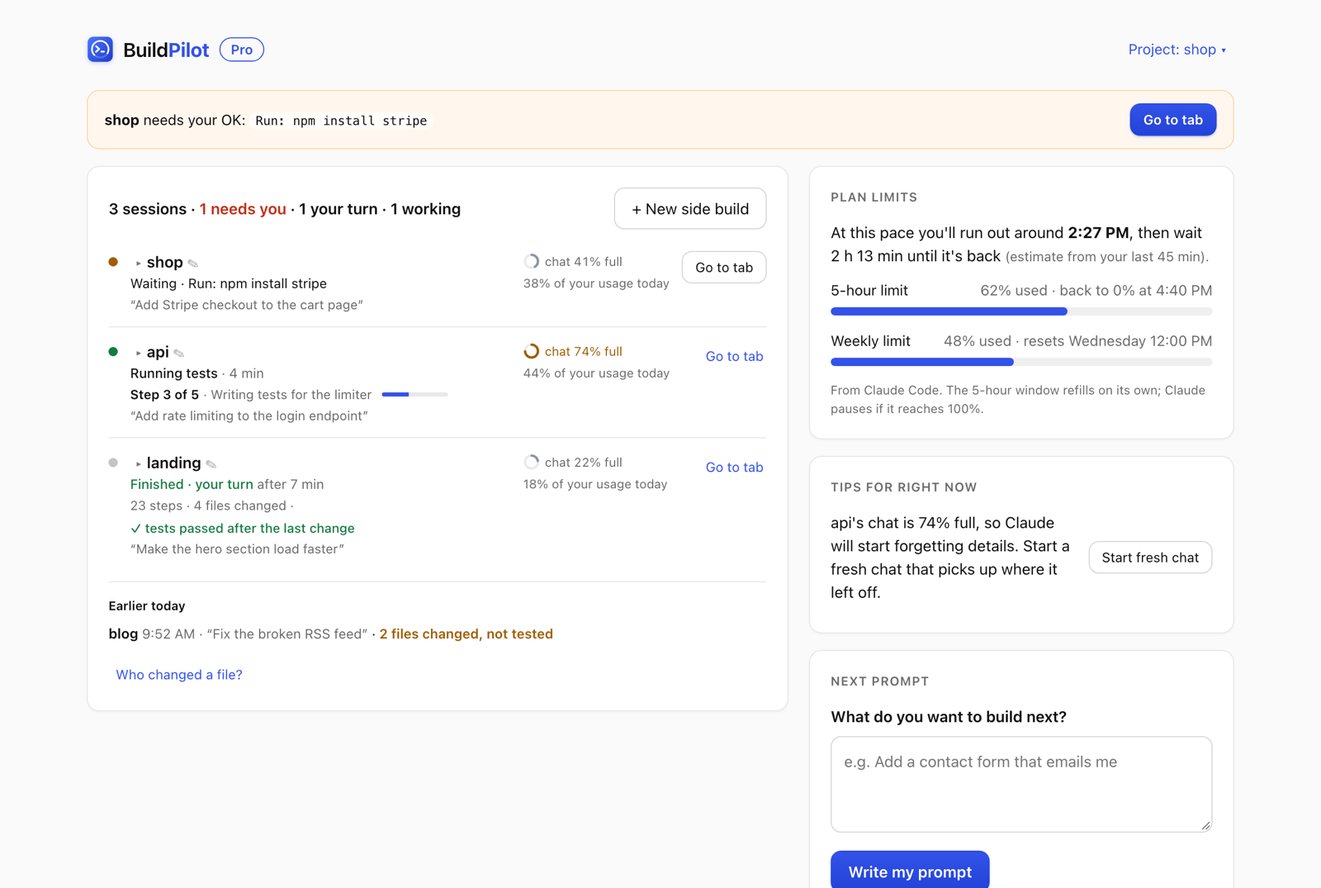
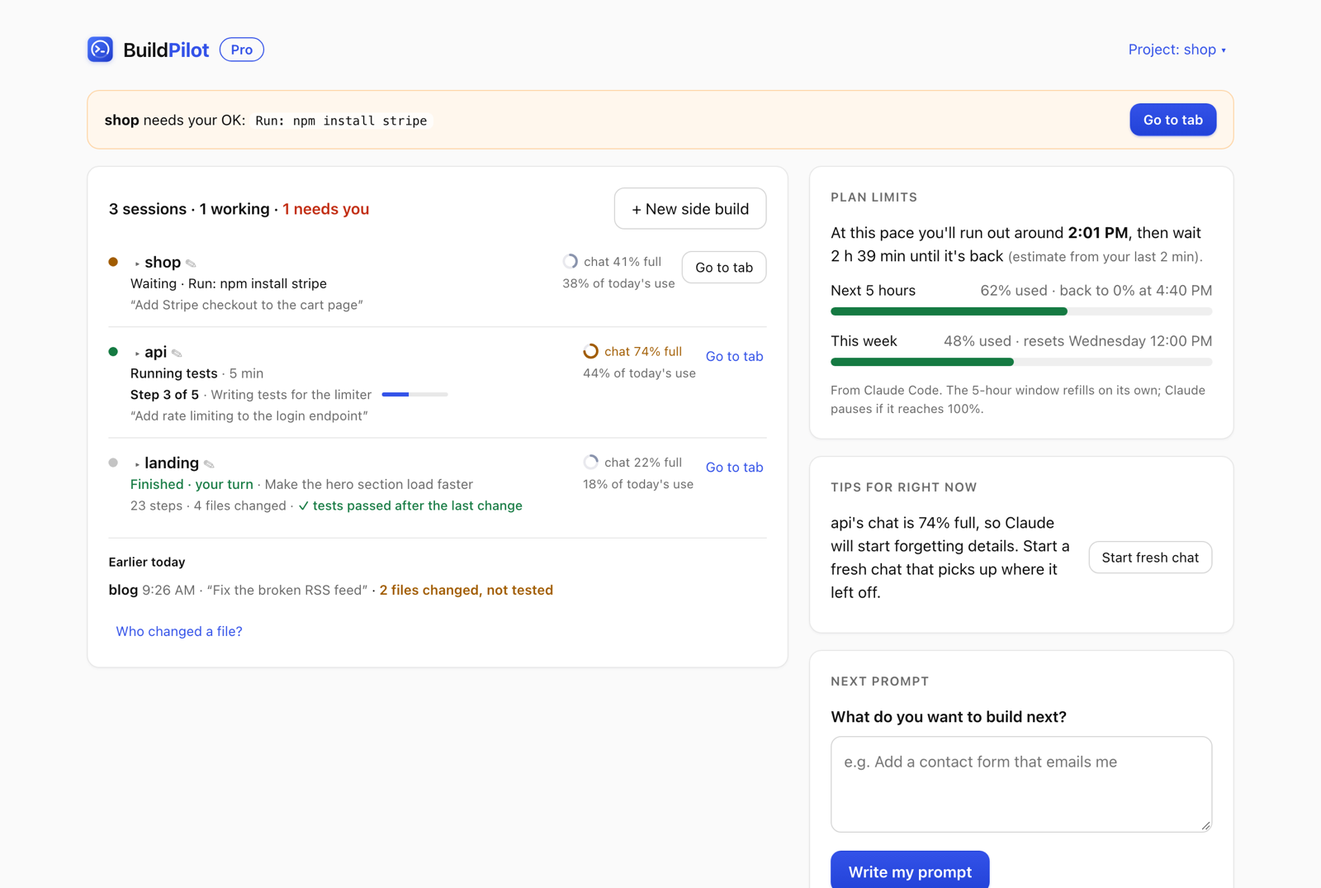
Website + README hero for 0.12 (demo data only), guide image uses demo data, chat ring color follows chat thresholds

diff --git a/media/webview.js b/media/webview.js
@@ -1,5 +1,5 @@
 "use strict";(()=>{function O(t){let e=t.toLowerCase();return/\b(bug|broken|fix|error|crash|doesn'?t work|not working|fails?)\b/.test(e)?"bugfix":/\b(deploy|launch|ship|host|publish|go live)\b/.test(e)?"deploy":/\b(test|tests|testing)\b/.test(e)?"tests":/\b(slow|speed|faster|performance)\b/.test(e)?"performance":/\b(secure|security|password|leak|secret)\b/.test(e)?"security":/\b(design|layout|look|style|css|ui|button|page|screen)\b/.test(e)?"ui":/\b(connect|integrat|api|stripe|gmail|google|webhook)\w*/.test(e)?"integration":/\b(explain|understand|what does|how does)\b/.test(e)?"explain":/\b(clean ?up|refactor|reorganize|simplify)\b/.test(e)?"refactor":"feature"}var H=acquireVsCodeApi(),C={request:"",...H.getState()??{}},J=()=>H.setState(C),g=null,i=null,N=!0,E="white",F="white",X=()=>typeof matchMedia=="function"&&matchMedia("(prefers-color-scheme: dark)").matches;typeof matchMedia=="function"&&matchMedia("(prefers-color-scheme: dark)").addEventListener?.("change",()=>{F==="auto"&&(E=X()?"match":"white",m())});var y=!1,Z=!0,x=20,v="",P=null,D=!1,K="",nt=0,U=new Map;function d(t,e={}){let s=++nt;return new Promise(n=>{U.set(s,n),H.postMessage({type:t,id:s,...e})})}window.addEventListener("message",t=>{let e=t.data;if(e.type==="reply"&&e.id)U.get(e.id)?.(e.result),U.delete(e.id);else if(e.type==="state"){g=e.state??null,i=e.page??null,N=e.settings?.trusted??!0,F=e.settings?.theme??"white",E=F==="match"||F==="auto"&&X()?"match":"white",y=!!e.settings?.standalone,Z=e.settings?.alerts!==!1;let s=JSON.stringify({p:i,n:g?.project?.root,a:g?.analyzing,t:Math.floor((g?.generatedAt??0)/6e4),trusted:N,theme:E});if(s===K)return;K=s,m()}else e.type==="navigate"&&document.getElementById("req")?.focus()});var a=t=>String(t??"").replace(/[&<>"']/g,e=>({"&":"&amp;","<":"&lt;",">":"&gt;",'"':"&quot;","'":"&#39;"})[e]),M=t=>new Date(t).toLocaleTimeString([],{hour:"numeric",minute:"2-digit"});function T(t){let e=Math.max(0,Math.round((Date.now()-t)/1e3));return e<60?"just now":e<3600?`${Math.round(e/60)} min ago`:`${Math.round(e/3600)} h ago`}function f(t,e=90){if(!t)return"";let s=(t.split(`
-`).map(n=>n.trim()).find(n=>n.length>0)??"").replace(/\s+/g," ");return s.length>e?`${s.slice(0,e-1).trimEnd()}\u2026`:s}var it=t=>t==null?"none":t>=90?"bad":t>=70?"warn":"ok",tt=t=>t==null?"none":t>=95?"bad":t>=80?"warn":"ok",I=null;function b(t){let e=document.getElementById("flash");e&&(e.textContent=t,e.classList.add("on"));let s=document.getElementById("live");s&&(s.textContent=t),I&&clearTimeout(I),I=setTimeout(()=>document.getElementById("flash")?.classList.remove("on"),2400)}var et='<svg class="mark" viewBox="0 0 512 512" aria-hidden="true" focusable="false"><defs><linearGradient id="bpg" x1="0" y1="0" x2="1" y2="1"><stop offset="0" stop-color="#4C78FF"/><stop offset="1" stop-color="#1F3BC9"/></linearGradient></defs><rect x="16" y="16" width="480" height="480" rx="112" fill="url(#bpg)"/><circle cx="256" cy="256" r="158" fill="none" stroke="#FFFFFF" stroke-opacity=".22" stroke-width="30"/><circle cx="256" cy="256" r="158" fill="none" stroke="#FFFFFF" stroke-width="30" stroke-linecap="round" stroke-dasharray="700 993" transform="rotate(135 256 256)"/><path d="M176 200 L236 252 L176 304" fill="none" stroke="#FFFFFF" stroke-width="34" stroke-linecap="round" stroke-linejoin="round"/><rect x="262" y="286" width="82" height="34" rx="17" fill="#FFFFFF"/></svg>';function ot(t){let s=2*Math.PI*7,n=Math.min(100,Math.max(0,t));return`<svg class="ring tone-${t<70?"calm":tt(t)}" viewBox="0 0 18 18" aria-hidden="true" focusable="false"><circle cx="9" cy="9" r="7" class="ring-bg"/><circle cx="9" cy="9" r="7" class="ring-fg" stroke-dasharray="${(n/100*s).toFixed(1)} ${s.toFixed(1)}" transform="rotate(-90 9 9)"/></svg>`}function lt(){if(!i||!i.connected)return"";let t=[],e=i.builds.find(r=>r.needsYou);e&&t.push(`<div class="hu hu-need"><span><b>${a(e.name??e.folder)}</b> needs your OK${e.waitingFor?`: <code>${a(f(e.waitingFor,60))}</code>`:""}</span><button class="primary small-btn" data-act="openBuild" data-cwd="${a(e.cwd)}" data-id="${a(e.id)}">${y?"Go to tab":"Review"}</button></div>`);let s=i.limits;if((s.fiveHourPct??0)>=80){let r=[...i.builds].filter(l=>l.share!=null&&l.agent!=="codex").sort((l,h)=>h.share-l.share)[0],u=r&&i.builds.length>1&&(r.share??0)>=30?`<button class="secondary small-btn" data-act="tip" data-tip="pause" data-cwd="${a(r.cwd)}" title="Opens its terminal so you can press Esc to pause it. Your files are kept.">Pause ${a(r.name??r.folder)} (${r.share}%)</button>`:"";t.push(`<div class="hu hu-limit"><span><b>${Math.round(s.fiveHourPct)}%</b> of your 5-hour limit used${s.fullAt?` \xB7 runs out around <b>${M(s.fullAt)}</b>`:""}${s.fiveHourResetsAt?` \xB7 back at ${M(s.fiveHourResetsAt)}`:""}</span>${u}</div>`)}let n=i.builds.find(r=>r.stopped);n&&t.length<2&&t.push(`<div class="hu hu-stop"><span><b>${a(n.name??n.folder)}</b> stopped mid-task</span><button class="secondary small-btn" data-act="resumeBuild" data-id="${a(n.id)}" data-cwd="${a(n.cwd)}">Resume</button></div>`);let o=i.builds.find(r=>(r.errors1h??0)>=3);return o&&t.length<2&&t.push(`<div class="hu hu-err"><span><b>${a(o.name??o.folder)}</b> hit ${o.errors1h} errors this hour</span><button class="secondary small-btn" data-act="toggleErrors" data-id="${a(o.id)}">See them</button></div>`),t.length?`<section class="headsup" aria-label="Needs attention">${t.slice(0,2).join("")}</section>`:""}var rt=["data-act","data-id","data-cwd","data-dir","data-tip","data-path","data-branch"];function dt(t){if(!t||t===document.body||t.id)return null;let e=rt.filter(s=>t.hasAttribute(s)).map(s=>`[${s}="${CSS.escape(t.getAttribute(s))}"]`).join("");return e?`${t.tagName.toLowerCase()}${e}`:null}var _="";function ct(){if(!i)return;let t=[],e=i.builds.filter(n=>n.needsYou);e.length&&t.push(`${e.map(n=>n.name??n.folder).join(", ")} ${e.length===1?"needs":"need"} you`),(i.limits.fiveHourPct??0)>=80&&t.push(`${Math.round(i.limits.fiveHourPct)} percent of your 5-hour limit used`);let s=t.join(". ");if(s&&s!==_){let n=document.getElementById("live");n&&(n.textContent=s)}_=s}function m(){let t=document.getElementById("app"),e=document.activeElement?.id,s=dt(document.activeElement),n=document.activeElement?.selectionStart??null;if(!g||!i){t.innerHTML='<div class="loading">Starting BuildPilot\u2026</div>';return}document.body.classList.toggle("match",E==="match"),document.body.classList.toggle("sa",y),t.innerHTML=`
+`).map(n=>n.trim()).find(n=>n.length>0)??"").replace(/\s+/g," ");return s.length>e?`${s.slice(0,e-1).trimEnd()}\u2026`:s}var tt=t=>t==null?"none":t>=90?"bad":t>=70?"warn":"ok",it=t=>t==null?"none":t>=95?"bad":t>=80?"warn":"ok",I=null;function b(t){let e=document.getElementById("flash");e&&(e.textContent=t,e.classList.add("on"));let s=document.getElementById("live");s&&(s.textContent=t),I&&clearTimeout(I),I=setTimeout(()=>document.getElementById("flash")?.classList.remove("on"),2400)}var et='<svg class="mark" viewBox="0 0 512 512" aria-hidden="true" focusable="false"><defs><linearGradient id="bpg" x1="0" y1="0" x2="1" y2="1"><stop offset="0" stop-color="#4C78FF"/><stop offset="1" stop-color="#1F3BC9"/></linearGradient></defs><rect x="16" y="16" width="480" height="480" rx="112" fill="url(#bpg)"/><circle cx="256" cy="256" r="158" fill="none" stroke="#FFFFFF" stroke-opacity=".22" stroke-width="30"/><circle cx="256" cy="256" r="158" fill="none" stroke="#FFFFFF" stroke-width="30" stroke-linecap="round" stroke-dasharray="700 993" transform="rotate(135 256 256)"/><path d="M176 200 L236 252 L176 304" fill="none" stroke="#FFFFFF" stroke-width="34" stroke-linecap="round" stroke-linejoin="round"/><rect x="262" y="286" width="82" height="34" rx="17" fill="#FFFFFF"/></svg>';function ot(t){let s=2*Math.PI*7,n=Math.min(100,Math.max(0,t));return`<svg class="ring tone-${t<70?"calm":tt(t)}" viewBox="0 0 18 18" aria-hidden="true" focusable="false"><circle cx="9" cy="9" r="7" class="ring-bg"/><circle cx="9" cy="9" r="7" class="ring-fg" stroke-dasharray="${(n/100*s).toFixed(1)} ${s.toFixed(1)}" transform="rotate(-90 9 9)"/></svg>`}function lt(){if(!i||!i.connected)return"";let t=[],e=i.builds.find(r=>r.needsYou);e&&t.push(`<div class="hu hu-need"><span><b>${a(e.name??e.folder)}</b> needs your OK${e.waitingFor?`: <code>${a(f(e.waitingFor,60))}</code>`:""}</span><button class="primary small-btn" data-act="openBuild" data-cwd="${a(e.cwd)}" data-id="${a(e.id)}">${y?"Go to tab":"Review"}</button></div>`);let s=i.limits;if((s.fiveHourPct??0)>=80){let r=[...i.builds].filter(l=>l.share!=null&&l.agent!=="codex").sort((l,h)=>h.share-l.share)[0],u=r&&i.builds.length>1&&(r.share??0)>=30?`<button class="secondary small-btn" data-act="tip" data-tip="pause" data-cwd="${a(r.cwd)}" title="Opens its terminal so you can press Esc to pause it. Your files are kept.">Pause ${a(r.name??r.folder)} (${r.share}%)</button>`:"";t.push(`<div class="hu hu-limit"><span><b>${Math.round(s.fiveHourPct)}%</b> of your 5-hour limit used${s.fullAt?` \xB7 runs out around <b>${M(s.fullAt)}</b>`:""}${s.fiveHourResetsAt?` \xB7 back at ${M(s.fiveHourResetsAt)}`:""}</span>${u}</div>`)}let n=i.builds.find(r=>r.stopped);n&&t.length<2&&t.push(`<div class="hu hu-stop"><span><b>${a(n.name??n.folder)}</b> stopped mid-task</span><button class="secondary small-btn" data-act="resumeBuild" data-id="${a(n.id)}" data-cwd="${a(n.cwd)}">Resume</button></div>`);let o=i.builds.find(r=>(r.errors1h??0)>=3);return o&&t.length<2&&t.push(`<div class="hu hu-err"><span><b>${a(o.name??o.folder)}</b> hit ${o.errors1h} errors this hour</span><button class="secondary small-btn" data-act="toggleErrors" data-id="${a(o.id)}">See them</button></div>`),t.length?`<section class="headsup" aria-label="Needs attention">${t.slice(0,2).join("")}</section>`:""}var rt=["data-act","data-id","data-cwd","data-dir","data-tip","data-path","data-branch"];function dt(t){if(!t||t===document.body||t.id)return null;let e=rt.filter(s=>t.hasAttribute(s)).map(s=>`[${s}="${CSS.escape(t.getAttribute(s))}"]`).join("");return e?`${t.tagName.toLowerCase()}${e}`:null}var _="";function ct(){if(!i)return;let t=[],e=i.builds.filter(n=>n.needsYou);e.length&&t.push(`${e.map(n=>n.name??n.folder).join(", ")} ${e.length===1?"needs":"need"} you`),(i.limits.fiveHourPct??0)>=80&&t.push(`${Math.round(i.limits.fiveHourPct)} percent of your 5-hour limit used`);let s=t.join(". ");if(s&&s!==_){let n=document.getElementById("live");n&&(n.textContent=s)}_=s}function m(){let t=document.getElementById("app"),e=document.activeElement?.id,s=dt(document.activeElement),n=document.activeElement?.selectionStart??null;if(!g||!i){t.innerHTML='<div class="loading">Starting BuildPilot\u2026</div>';return}document.body.classList.toggle("match",E==="match"),document.body.classList.toggle("sa",y),t.innerHTML=`
   <main class="page">
     <header class="head">
       <h1 class="brand">${et}<span>Build<b>Pilot</b></span></h1>
@@ -40,7 +40,7 @@ ${a(t.task.slice(0,600))}`:""}">${ft(t)}</div>
       ${(t.risks??[]).length?`<div class="b-risk" role="note"><span aria-hidden="true">\u26A0</span> ${a(t.risks[0])}${t.risks.length>1?` <span class="muted">+${t.risks.length-1} more</span>`:""}</div>`:""}
       ${n}
     </div>
-    <div class="b-meta">${t.contextPct!=null?`<span class="mem tone-${it(t.contextPct)}" title="How full this chat is. From 70% Claude starts to lose details; a fresh chat with a summary keeps it sharp.">${ot(t.contextPct)}chat ${Math.round(t.contextPct)}% full</span>`:""}${t.costUsd!=null?`<span class="share" title="Claude Code's own estimate for this build today">~$${t.costUsd.toFixed(2)}</span>`:t.share!=null&&t.share>=1?`<span class="share" title="This build's share of all your Claude Code usage today, from Claude Code's own cost estimate">${t.share}% of today's use</span>`:t.codexTokens?`<span class="share">${k(t.codexTokens)} tokens</span>`:""}</div>
+    <div class="b-meta">${t.contextPct!=null?`<span class="mem tone-${tt(t.contextPct)}" title="How full this chat is. From 70% Claude starts to lose details; a fresh chat with a summary keeps it sharp.">${ot(t.contextPct)}chat ${Math.round(t.contextPct)}% full</span>`:""}${t.costUsd!=null?`<span class="share" title="Claude Code's own estimate for this build today">~$${t.costUsd.toFixed(2)}</span>`:t.share!=null&&t.share>=1?`<span class="share" title="This build's share of all your Claude Code usage today, from Claude Code's own cost estimate">${t.share}% of today's use</span>`:t.codexTokens?`<span class="share">${k(t.codexTokens)} tokens</span>`:""}</div>
     <div class="b-act">${t.agent==="codex"?'<span class="muted small" title="Codex has no hooks, so BuildPilot can only read its logs">read-only</span>':kt(t)}</div>
     ${w.has(t.id)?bt(t):""}
   </li>`}function bt(t){let e=t.tokens,s=e?`<div class="tokens"><div class="d-head">Where the tokens went</div>
@@ -61,7 +61,7 @@ ${a(t.task.slice(0,600))}`:""}">${ft(t)}</div>
       ${e.changed?`<button class="secondary small-btn" data-act="reviewBuild" data-dir="${a(e.dir)}" data-branch="${a(e.branch)}" title="See each changed file, before and after">Review</button><button class="secondary small-btn" data-act="mergeBuild" data-dir="${a(e.dir)}" data-branch="${a(e.branch)}" title="Bring this build's work into your main project">Merge</button>`:`<button class="link" data-act="removeBuild" data-dir="${a(e.dir)}" title="Remove this folder (its branch is kept)">Remove</button>`}
     </li>`).join("")}</ul></div>`:""}function kt(t){let e=t.needsYou&&i.builds.find(n=>n.needsYou)?.id===t.id;if(!y)return`<button class="${t.needsYou?e?"secondary small-btn":"primary":"link"}" data-act="openBuild" data-cwd="${a(t.cwd)}" data-id="${a(t.id)}" title="${t.needsYou?"Opens its terminal. Nothing is approved until you approve it there.":"Opens its terminal"}">${t.needsYou?"Review in terminal":"Open terminal"}</button>`;if(t.needsYou)return`<button class="${e?"secondary small-btn":"primary"}" data-act="openBuild" data-cwd="${a(t.cwd)}" data-id="${a(t.id)}" title="Brings its Terminal, iTerm or tmux tab forward. Nothing is approved until you approve it there.">Go to tab</button>`;let s=(t.contextPct??0)>=70&&t.status!=="running"?`<button class="link" data-act="startFresh" data-cwd="${a(t.cwd)}" title="Copies a summary of the work so far and opens a new Claude in this folder">Start fresh</button>`:"";return t.stopped?`${s}<button class="link" data-act="resumeBuild" data-id="${a(t.id)}" data-cwd="${a(t.cwd)}" title="Reopens this Claude conversation in Terminal">Resume</button>`:`${s}<button class="link" data-act="openBuild" data-cwd="${a(t.cwd)}" data-id="${a(t.id)}" title="Brings its Terminal, iTerm or tmux tab forward">Go to tab</button>`}function V(t,e,s){return`<div class="meter">
     <div class="m-top"><span>${t}</span><span class="muted">${s}</span></div>
-    <div class="track" role="progressbar" aria-label="${a(t)}" aria-valuemin="0" aria-valuemax="100" ${e!=null?`aria-valuenow="${Math.round(e)}"`:""}><div class="fill tone-${tt(e)}" style="width:${Math.min(100,Math.max(0,e??0))}%"></div></div>
+    <div class="track" role="progressbar" aria-label="${a(t)}" aria-valuemin="0" aria-valuemax="100" ${e!=null?`aria-valuenow="${Math.round(e)}"`:""}><div class="fill tone-${it(e)}" style="width:${Math.min(100,Math.max(0,e??0))}%"></div></div>
   </div>`}function z(t){return`${new Date(t).toLocaleDateString([],{weekday:"long"})} ${M(t)}`}function Et(){let t=i.limits;if(i.billing==="api")return`<section class="block" aria-label="Spend"><h2 class="label">Spend today</h2><p class="big">${i.costTodayUsd!=null?`~$${i.costTodayUsd.toFixed(2)}`:"\u2014"}</p><p class="muted small">Claude Code's own estimate for your API key, across all builds today.</p></section>`;if(i.billing==="unknown"||t.fiveHourPct==null&&t.sevenDayPct==null)return'<section class="block" aria-label="Plan limits"><h2 class="label">Plan limits</h2><p class="muted">Shows up after your next message to Claude.</p></section>';let e=t.fiveHourPct==null?"unknown":`${Math.round(t.fiveHourPct)}% used${t.fiveHourResetsAt?` \xB7 back to 0% at ${M(t.fiveHourResetsAt)}`:""}`,s=t.sevenDayPct==null?"unknown":`${Math.round(t.sevenDayPct)}% used${t.sevenDayResetsAt?` \xB7 resets ${z(t.sevenDayResetsAt)}`:""}`,n="";if(t.fullAt&&(t.fiveHourPct??0)<80){let o=t.fiveHourResetsAt&&t.fiveHourResetsAt>t.fullAt?Math.round((t.fiveHourResetsAt-t.fullAt)/6e4):0;n=`<p class="forecast ${t.fullAt-Date.now()<36e5?"urgent":""}" title="${t.basisMin?`Based on your usage over the last ${t.basisMin} min.`:""}">At this pace you'll run out around <b>${M(t.fullAt)}</b>${o>0?`, then wait ${o>=60?`${Math.floor(o/60)} h ${o%60} min`:`${o} min`} until it's back`:""} <span class="muted small">(estimate${t.basisMin?` from your last ${t.basisMin} min`:""}).${t.accuracy?` ${a(t.accuracy)}`:""}</span></p>`}return`<section class="block" aria-label="Plan limits"><h2 class="label">Plan limits</h2>${n}${V("Next 5 hours",t.fiveHourPct,e)}${V("This week",t.sevenDayPct,s)}${(t.week??[]).length>1?`<p class="small weekline">This week: ${(t.week??[]).map(o=>`${a(o.day)} ${Math.round(o.pct)}%`).join(" \u2192 ")}</p>`:""}${t.weekFullAt?`<p class="small warn-text">At this pace your week runs out ${z(t.weekFullAt)}.</p>`:""}${t.codex&&(t.codex.primaryPct!=null||t.codex.secondaryPct!=null)?`<p class="small">Codex: ${t.codex.primaryPct!=null?`${Math.round(t.codex.primaryPct)}% of its short limit`:""}${t.codex.secondaryPct!=null?` \xB7 ${Math.round(t.codex.secondaryPct)}% weekly`:""}</p>`:""}<p class="muted tiny">From Claude Code. The 5-hour window refills on its own; Claude pauses if it reaches 100%.</p></section>`}function Ct(){let t=i.tips.filter(e=>!(e.key==="limit"&&(i.limits.fiveHourPct??0)>=80));return t.length?`<section class="block" aria-label="Tips"><h2 class="label">Tips for right now</h2><ul class="tips">${t.map(e=>`<li><span>${a(e.text)}</span>${e.action?`<button class="secondary small-btn" data-act="tip" data-tip="${e.action}" ${e.cwd?`data-cwd="${a(e.cwd)}"`:""} ${e.id?`data-id="${a(e.id)}"`:""} title="${a(e.why)}">${a(e.actionLabel??"Do it")}</button>`:""}</li>`).join("")}</ul></section>`:""}function Tt(){let t=i.plan;return`<div class="paywall" role="status">
     <b>You've used your ${x} free prompts.</b>
     <ul>${t.points.map(e=>`<li>${a(e)}</li>`).join("")}</ul>

diff --git a/plugin/media/webview.js b/plugin/media/webview.js
@@ -1,5 +1,5 @@
 "use strict";(()=>{function O(t){let e=t.toLowerCase();return/\b(bug|broken|fix|error|crash|doesn'?t work|not working|fails?)\b/.test(e)?"bugfix":/\b(deploy|launch|ship|host|publish|go live)\b/.test(e)?"deploy":/\b(test|tests|testing)\b/.test(e)?"tests":/\b(slow|speed|faster|performance)\b/.test(e)?"performance":/\b(secure|security|password|leak|secret)\b/.test(e)?"security":/\b(design|layout|look|style|css|ui|button|page|screen)\b/.test(e)?"ui":/\b(connect|integrat|api|stripe|gmail|google|webhook)\w*/.test(e)?"integration":/\b(explain|understand|what does|how does)\b/.test(e)?"explain":/\b(clean ?up|refactor|reorganize|simplify)\b/.test(e)?"refactor":"feature"}var H=acquireVsCodeApi(),C={request:"",...H.getState()??{}},J=()=>H.setState(C),g=null,i=null,N=!0,E="white",F="white",X=()=>typeof matchMedia=="function"&&matchMedia("(prefers-color-scheme: dark)").matches;typeof matchMedia=="function"&&matchMedia("(prefers-color-scheme: dark)").addEventListener?.("change",()=>{F==="auto"&&(E=X()?"match":"white",m())});var y=!1,Z=!0,x=20,v="",P=null,D=!1,K="",nt=0,U=new Map;function d(t,e={}){let s=++nt;return new Promise(n=>{U.set(s,n),H.postMessage({type:t,id:s,...e})})}window.addEventListener("message",t=>{let e=t.data;if(e.type==="reply"&&e.id)U.get(e.id)?.(e.result),U.delete(e.id);else if(e.type==="state"){g=e.state??null,i=e.page??null,N=e.settings?.trusted??!0,F=e.settings?.theme??"white",E=F==="match"||F==="auto"&&X()?"match":"white",y=!!e.settings?.standalone,Z=e.settings?.alerts!==!1;let s=JSON.stringify({p:i,n:g?.project?.root,a:g?.analyzing,t:Math.floor((g?.generatedAt??0)/6e4),trusted:N,theme:E});if(s===K)return;K=s,m()}else e.type==="navigate"&&document.getElementById("req")?.focus()});var a=t=>String(t??"").replace(/[&<>"']/g,e=>({"&":"&amp;","<":"&lt;",">":"&gt;",'"':"&quot;","'":"&#39;"})[e]),M=t=>new Date(t).toLocaleTimeString([],{hour:"numeric",minute:"2-digit"});function T(t){let e=Math.max(0,Math.round((Date.now()-t)/1e3));return e<60?"just now":e<3600?`${Math.round(e/60)} min ago`:`${Math.round(e/3600)} h ago`}function f(t,e=90){if(!t)return"";let s=(t.split(`
-`).map(n=>n.trim()).find(n=>n.length>0)??"").replace(/\s+/g," ");return s.length>e?`${s.slice(0,e-1).trimEnd()}\u2026`:s}var it=t=>t==null?"none":t>=90?"bad":t>=70?"warn":"ok",tt=t=>t==null?"none":t>=95?"bad":t>=80?"warn":"ok",I=null;function b(t){let e=document.getElementById("flash");e&&(e.textContent=t,e.classList.add("on"));let s=document.getElementById("live");s&&(s.textContent=t),I&&clearTimeout(I),I=setTimeout(()=>document.getElementById("flash")?.classList.remove("on"),2400)}var et='<svg class="mark" viewBox="0 0 512 512" aria-hidden="true" focusable="false"><defs><linearGradient id="bpg" x1="0" y1="0" x2="1" y2="1"><stop offset="0" stop-color="#4C78FF"/><stop offset="1" stop-color="#1F3BC9"/></linearGradient></defs><rect x="16" y="16" width="480" height="480" rx="112" fill="url(#bpg)"/><circle cx="256" cy="256" r="158" fill="none" stroke="#FFFFFF" stroke-opacity=".22" stroke-width="30"/><circle cx="256" cy="256" r="158" fill="none" stroke="#FFFFFF" stroke-width="30" stroke-linecap="round" stroke-dasharray="700 993" transform="rotate(135 256 256)"/><path d="M176 200 L236 252 L176 304" fill="none" stroke="#FFFFFF" stroke-width="34" stroke-linecap="round" stroke-linejoin="round"/><rect x="262" y="286" width="82" height="34" rx="17" fill="#FFFFFF"/></svg>';function ot(t){let s=2*Math.PI*7,n=Math.min(100,Math.max(0,t));return`<svg class="ring tone-${t<70?"calm":tt(t)}" viewBox="0 0 18 18" aria-hidden="true" focusable="false"><circle cx="9" cy="9" r="7" class="ring-bg"/><circle cx="9" cy="9" r="7" class="ring-fg" stroke-dasharray="${(n/100*s).toFixed(1)} ${s.toFixed(1)}" transform="rotate(-90 9 9)"/></svg>`}function lt(){if(!i||!i.connected)return"";let t=[],e=i.builds.find(r=>r.needsYou);e&&t.push(`<div class="hu hu-need"><span><b>${a(e.name??e.folder)}</b> needs your OK${e.waitingFor?`: <code>${a(f(e.waitingFor,60))}</code>`:""}</span><button class="primary small-btn" data-act="openBuild" data-cwd="${a(e.cwd)}" data-id="${a(e.id)}">${y?"Go to tab":"Review"}</button></div>`);let s=i.limits;if((s.fiveHourPct??0)>=80){let r=[...i.builds].filter(l=>l.share!=null&&l.agent!=="codex").sort((l,h)=>h.share-l.share)[0],u=r&&i.builds.length>1&&(r.share??0)>=30?`<button class="secondary small-btn" data-act="tip" data-tip="pause" data-cwd="${a(r.cwd)}" title="Opens its terminal so you can press Esc to pause it. Your files are kept.">Pause ${a(r.name??r.folder)} (${r.share}%)</button>`:"";t.push(`<div class="hu hu-limit"><span><b>${Math.round(s.fiveHourPct)}%</b> of your 5-hour limit used${s.fullAt?` \xB7 runs out around <b>${M(s.fullAt)}</b>`:""}${s.fiveHourResetsAt?` \xB7 back at ${M(s.fiveHourResetsAt)}`:""}</span>${u}</div>`)}let n=i.builds.find(r=>r.stopped);n&&t.length<2&&t.push(`<div class="hu hu-stop"><span><b>${a(n.name??n.folder)}</b> stopped mid-task</span><button class="secondary small-btn" data-act="resumeBuild" data-id="${a(n.id)}" data-cwd="${a(n.cwd)}">Resume</button></div>`);let o=i.builds.find(r=>(r.errors1h??0)>=3);return o&&t.length<2&&t.push(`<div class="hu hu-err"><span><b>${a(o.name??o.folder)}</b> hit ${o.errors1h} errors this hour</span><button class="secondary small-btn" data-act="toggleErrors" data-id="${a(o.id)}">See them</button></div>`),t.length?`<section class="headsup" aria-label="Needs attention">${t.slice(0,2).join("")}</section>`:""}var rt=["data-act","data-id","data-cwd","data-dir","data-tip","data-path","data-branch"];function dt(t){if(!t||t===document.body||t.id)return null;let e=rt.filter(s=>t.hasAttribute(s)).map(s=>`[${s}="${CSS.escape(t.getAttribute(s))}"]`).join("");return e?`${t.tagName.toLowerCase()}${e}`:null}var _="";function ct(){if(!i)return;let t=[],e=i.builds.filter(n=>n.needsYou);e.length&&t.push(`${e.map(n=>n.name??n.folder).join(", ")} ${e.length===1?"needs":"need"} you`),(i.limits.fiveHourPct??0)>=80&&t.push(`${Math.round(i.limits.fiveHourPct)} percent of your 5-hour limit used`);let s=t.join(". ");if(s&&s!==_){let n=document.getElementById("live");n&&(n.textContent=s)}_=s}function m(){let t=document.getElementById("app"),e=document.activeElement?.id,s=dt(document.activeElement),n=document.activeElement?.selectionStart??null;if(!g||!i){t.innerHTML='<div class="loading">Starting BuildPilot\u2026</div>';return}document.body.classList.toggle("match",E==="match"),document.body.classList.toggle("sa",y),t.innerHTML=`
+`).map(n=>n.trim()).find(n=>n.length>0)??"").replace(/\s+/g," ");return s.length>e?`${s.slice(0,e-1).trimEnd()}\u2026`:s}var tt=t=>t==null?"none":t>=90?"bad":t>=70?"warn":"ok",it=t=>t==null?"none":t>=95?"bad":t>=80?"warn":"ok",I=null;function b(t){let e=document.getElementById("flash");e&&(e.textContent=t,e.classList.add("on"));let s=document.getElementById("live");s&&(s.textContent=t),I&&clearTimeout(I),I=setTimeout(()=>document.getElementById("flash")?.classList.remove("on"),2400)}var et='<svg class="mark" viewBox="0 0 512 512" aria-hidden="true" focusable="false"><defs><linearGradient id="bpg" x1="0" y1="0" x2="1" y2="1"><stop offset="0" stop-color="#4C78FF"/><stop offset="1" stop-color="#1F3BC9"/></linearGradient></defs><rect x="16" y="16" width="480" height="480" rx="112" fill="url(#bpg)"/><circle cx="256" cy="256" r="158" fill="none" stroke="#FFFFFF" stroke-opacity=".22" stroke-width="30"/><circle cx="256" cy="256" r="158" fill="none" stroke="#FFFFFF" stroke-width="30" stroke-linecap="round" stroke-dasharray="700 993" transform="rotate(135 256 256)"/><path d="M176 200 L236 252 L176 304" fill="none" stroke="#FFFFFF" stroke-width="34" stroke-linecap="round" stroke-linejoin="round"/><rect x="262" y="286" width="82" height="34" rx="17" fill="#FFFFFF"/></svg>';function ot(t){let s=2*Math.PI*7,n=Math.min(100,Math.max(0,t));return`<svg class="ring tone-${t<70?"calm":tt(t)}" viewBox="0 0 18 18" aria-hidden="true" focusable="false"><circle cx="9" cy="9" r="7" class="ring-bg"/><circle cx="9" cy="9" r="7" class="ring-fg" stroke-dasharray="${(n/100*s).toFixed(1)} ${s.toFixed(1)}" transform="rotate(-90 9 9)"/></svg>`}function lt(){if(!i||!i.connected)return"";let t=[],e=i.builds.find(r=>r.needsYou);e&&t.push(`<div class="hu hu-need"><span><b>${a(e.name??e.folder)}</b> needs your OK${e.waitingFor?`: <code>${a(f(e.waitingFor,60))}</code>`:""}</span><button class="primary small-btn" data-act="openBuild" data-cwd="${a(e.cwd)}" data-id="${a(e.id)}">${y?"Go to tab":"Review"}</button></div>`);let s=i.limits;if((s.fiveHourPct??0)>=80){let r=[...i.builds].filter(l=>l.share!=null&&l.agent!=="codex").sort((l,h)=>h.share-l.share)[0],u=r&&i.builds.length>1&&(r.share??0)>=30?`<button class="secondary small-btn" data-act="tip" data-tip="pause" data-cwd="${a(r.cwd)}" title="Opens its terminal so you can press Esc to pause it. Your files are kept.">Pause ${a(r.name??r.folder)} (${r.share}%)</button>`:"";t.push(`<div class="hu hu-limit"><span><b>${Math.round(s.fiveHourPct)}%</b> of your 5-hour limit used${s.fullAt?` \xB7 runs out around <b>${M(s.fullAt)}</b>`:""}${s.fiveHourResetsAt?` \xB7 back at ${M(s.fiveHourResetsAt)}`:""}</span>${u}</div>`)}let n=i.builds.find(r=>r.stopped);n&&t.length<2&&t.push(`<div class="hu hu-stop"><span><b>${a(n.name??n.folder)}</b> stopped mid-task</span><button class="secondary small-btn" data-act="resumeBuild" data-id="${a(n.id)}" data-cwd="${a(n.cwd)}">Resume</button></div>`);let o=i.builds.find(r=>(r.errors1h??0)>=3);return o&&t.length<2&&t.push(`<div class="hu hu-err"><span><b>${a(o.name??o.folder)}</b> hit ${o.errors1h} errors this hour</span><button class="secondary small-btn" data-act="toggleErrors" data-id="${a(o.id)}">See them</button></div>`),t.length?`<section class="headsup" aria-label="Needs attention">${t.slice(0,2).join("")}</section>`:""}var rt=["data-act","data-id","data-cwd","data-dir","data-tip","data-path","data-branch"];function dt(t){if(!t||t===document.body||t.id)return null;let e=rt.filter(s=>t.hasAttribute(s)).map(s=>`[${s}="${CSS.escape(t.getAttribute(s))}"]`).join("");return e?`${t.tagName.toLowerCase()}${e}`:null}var _="";function ct(){if(!i)return;let t=[],e=i.builds.filter(n=>n.needsYou);e.length&&t.push(`${e.map(n=>n.name??n.folder).join(", ")} ${e.length===1?"needs":"need"} you`),(i.limits.fiveHourPct??0)>=80&&t.push(`${Math.round(i.limits.fiveHourPct)} percent of your 5-hour limit used`);let s=t.join(". ");if(s&&s!==_){let n=document.getElementById("live");n&&(n.textContent=s)}_=s}function m(){let t=document.getElementById("app"),e=document.activeElement?.id,s=dt(document.activeElement),n=document.activeElement?.selectionStart??null;if(!g||!i){t.innerHTML='<div class="loading">Starting BuildPilot\u2026</div>';return}document.body.classList.toggle("match",E==="match"),document.body.classList.toggle("sa",y),t.innerHTML=`
   <main class="page">
     <header class="head">
       <h1 class="brand">${et}<span>Build<b>Pilot</b></span></h1>
@@ -40,7 +40,7 @@ ${a(t.task.slice(0,600))}`:""}">${ft(t)}</div>
       ${(t.risks??[]).length?`<div class="b-risk" role="note"><span aria-hidden="true">\u26A0</span> ${a(t.risks[0])}${t.risks.length>1?` <span class="muted">+${t.risks.length-1} more</span>`:""}</div>`:""}
       ${n}
     </div>
-    <div class="b-meta">${t.contextPct!=null?`<span class="mem tone-${it(t.contextPct)}" title="How full this chat is. From 70% Claude starts to lose details; a fresh chat with a summary keeps it sharp.">${ot(t.contextPct)}chat ${Math.round(t.contextPct)}% full</span>`:""}${t.costUsd!=null?`<span class="share" title="Claude Code's own estimate for this build today">~$${t.costUsd.toFixed(2)}</span>`:t.share!=null&&t.share>=1?`<span class="share" title="This build's share of all your Claude Code usage today, from Claude Code's own cost estimate">${t.share}% of today's use</span>`:t.codexTokens?`<span class="share">${k(t.codexTokens)} tokens</span>`:""}</div>
+    <div class="b-meta">${t.contextPct!=null?`<span class="mem tone-${tt(t.contextPct)}" title="How full this chat is. From 70% Claude starts to lose details; a fresh chat with a summary keeps it sharp.">${ot(t.contextPct)}chat ${Math.round(t.contextPct)}% full</span>`:""}${t.costUsd!=null?`<span class="share" title="Claude Code's own estimate for this build today">~$${t.costUsd.toFixed(2)}</span>`:t.share!=null&&t.share>=1?`<span class="share" title="This build's share of all your Claude Code usage today, from Claude Code's own cost estimate">${t.share}% of today's use</span>`:t.codexTokens?`<span class="share">${k(t.codexTokens)} tokens</span>`:""}</div>
     <div class="b-act">${t.agent==="codex"?'<span class="muted small" title="Codex has no hooks, so BuildPilot can only read its logs">read-only</span>':kt(t)}</div>
     ${w.has(t.id)?bt(t):""}
   </li>`}function bt(t){let e=t.tokens,s=e?`<div class="tokens"><div class="d-head">Where the tokens went</div>
@@ -61,7 +61,7 @@ ${a(t.task.slice(0,600))}`:""}">${ft(t)}</div>
       ${e.changed?`<button class="secondary small-btn" data-act="reviewBuild" data-dir="${a(e.dir)}" data-branch="${a(e.branch)}" title="See each changed file, before and after">Review</button><button class="secondary small-btn" data-act="mergeBuild" data-dir="${a(e.dir)}" data-branch="${a(e.branch)}" title="Bring this build's work into your main project">Merge</button>`:`<button class="link" data-act="removeBuild" data-dir="${a(e.dir)}" title="Remove this folder (its branch is kept)">Remove</button>`}
     </li>`).join("")}</ul></div>`:""}function kt(t){let e=t.needsYou&&i.builds.find(n=>n.needsYou)?.id===t.id;if(!y)return`<button class="${t.needsYou?e?"secondary small-btn":"primary":"link"}" data-act="openBuild" data-cwd="${a(t.cwd)}" data-id="${a(t.id)}" title="${t.needsYou?"Opens its terminal. Nothing is approved until you approve it there.":"Opens its terminal"}">${t.needsYou?"Review in terminal":"Open terminal"}</button>`;if(t.needsYou)return`<button class="${e?"secondary small-btn":"primary"}" data-act="openBuild" data-cwd="${a(t.cwd)}" data-id="${a(t.id)}" title="Brings its Terminal, iTerm or tmux tab forward. Nothing is approved until you approve it there.">Go to tab</button>`;let s=(t.contextPct??0)>=70&&t.status!=="running"?`<button class="link" data-act="startFresh" data-cwd="${a(t.cwd)}" title="Copies a summary of the work so far and opens a new Claude in this folder">Start fresh</button>`:"";return t.stopped?`${s}<button class="link" data-act="resumeBuild" data-id="${a(t.id)}" data-cwd="${a(t.cwd)}" title="Reopens this Claude conversation in Terminal">Resume</button>`:`${s}<button class="link" data-act="openBuild" data-cwd="${a(t.cwd)}" data-id="${a(t.id)}" title="Brings its Terminal, iTerm or tmux tab forward">Go to tab</button>`}function V(t,e,s){return`<div class="meter">
     <div class="m-top"><span>${t}</span><span class="muted">${s}</span></div>
-    <div class="track" role="progressbar" aria-label="${a(t)}" aria-valuemin="0" aria-valuemax="100" ${e!=null?`aria-valuenow="${Math.round(e)}"`:""}><div class="fill tone-${tt(e)}" style="width:${Math.min(100,Math.max(0,e??0))}%"></div></div>
+    <div class="track" role="progressbar" aria-label="${a(t)}" aria-valuemin="0" aria-valuemax="100" ${e!=null?`aria-valuenow="${Math.round(e)}"`:""}><div class="fill tone-${it(e)}" style="width:${Math.min(100,Math.max(0,e??0))}%"></div></div>
   </div>`}function z(t){return`${new Date(t).toLocaleDateString([],{weekday:"long"})} ${M(t)}`}function Et(){let t=i.limits;if(i.billing==="api")return`<section class="block" aria-label="Spend"><h2 class="label">Spend today</h2><p class="big">${i.costTodayUsd!=null?`~$${i.costTodayUsd.toFixed(2)}`:"\u2014"}</p><p class="muted small">Claude Code's own estimate for your API key, across all builds today.</p></section>`;if(i.billing==="unknown"||t.fiveHourPct==null&&t.sevenDayPct==null)return'<section class="block" aria-label="Plan limits"><h2 class="label">Plan limits</h2><p class="muted">Shows up after your next message to Claude.</p></section>';let e=t.fiveHourPct==null?"unknown":`${Math.round(t.fiveHourPct)}% used${t.fiveHourResetsAt?` \xB7 back to 0% at ${M(t.fiveHourResetsAt)}`:""}`,s=t.sevenDayPct==null?"unknown":`${Math.round(t.sevenDayPct)}% used${t.sevenDayResetsAt?` \xB7 resets ${z(t.sevenDayResetsAt)}`:""}`,n="";if(t.fullAt&&(t.fiveHourPct??0)<80){let o=t.fiveHourResetsAt&&t.fiveHourResetsAt>t.fullAt?Math.round((t.fiveHourResetsAt-t.fullAt)/6e4):0;n=`<p class="forecast ${t.fullAt-Date.now()<36e5?"urgent":""}" title="${t.basisMin?`Based on your usage over the last ${t.basisMin} min.`:""}">At this pace you'll run out around <b>${M(t.fullAt)}</b>${o>0?`, then wait ${o>=60?`${Math.floor(o/60)} h ${o%60} min`:`${o} min`} until it's back`:""} <span class="muted small">(estimate${t.basisMin?` from your last ${t.basisMin} min`:""}).${t.accuracy?` ${a(t.accuracy)}`:""}</span></p>`}return`<section class="block" aria-label="Plan limits"><h2 class="label">Plan limits</h2>${n}${V("Next 5 hours",t.fiveHourPct,e)}${V("This week",t.sevenDayPct,s)}${(t.week??[]).length>1?`<p class="small weekline">This week: ${(t.week??[]).map(o=>`${a(o.day)} ${Math.round(o.pct)}%`).join(" \u2192 ")}</p>`:""}${t.weekFullAt?`<p class="small warn-text">At this pace your week runs out ${z(t.weekFullAt)}.</p>`:""}${t.codex&&(t.codex.primaryPct!=null||t.codex.secondaryPct!=null)?`<p class="small">Codex: ${t.codex.primaryPct!=null?`${Math.round(t.codex.primaryPct)}% of its short limit`:""}${t.codex.secondaryPct!=null?` \xB7 ${Math.round(t.codex.secondaryPct)}% weekly`:""}</p>`:""}<p class="muted tiny">From Claude Code. The 5-hour window refills on its own; Claude pauses if it reaches 100%.</p></section>`}function Ct(){let t=i.tips.filter(e=>!(e.key==="limit"&&(i.limits.fiveHourPct??0)>=80));return t.length?`<section class="block" aria-label="Tips"><h2 class="label">Tips for right now</h2><ul class="tips">${t.map(e=>`<li><span>${a(e.text)}</span>${e.action?`<button class="secondary small-btn" data-act="tip" data-tip="${e.action}" ${e.cwd?`data-cwd="${a(e.cwd)}"`:""} ${e.id?`data-id="${a(e.id)}"`:""} title="${a(e.why)}">${a(e.actionLabel??"Do it")}</button>`:""}</li>`).join("")}</ul></section>`:""}function Tt(){let t=i.plan;return`<div class="paywall" role="status">
     <b>You've used your ${x} free prompts.</b>
     <ul>${t.points.map(e=>`<li>${a(e)}</li>`).join("")}</ul>

diff --git a/docs/index.html b/docs/index.html
@@ -3,7 +3,7 @@
 <head>
 <meta charset="utf-8">
 <meta name="viewport" content="width=device-width,initial-scale=1">
-<title>BuildPilot — a calm cockpit for Claude Code</title>
+<title>BuildPilot — your Claude Code companion</title>
 <meta name="description" content="See every Claude Code build, what needs you, your plan limits and when you'll run out, and where your tokens go. Local-only. Free to start.">
 <meta property="og:title" content="BuildPilot — a calm cockpit for Claude Code">
 <meta property="og:description" content="Every Claude build, what needs you, your limits and where your tokens go, in one calm window.">
@@ -63,29 +63,29 @@
   <main>
     <div class="hero">
       <div>
-        <h1>A calm cockpit for <span>Claude&nbsp;Code</span>.</h1>
-        <p class="lede">See every build, what needs you, when you'll hit your limit, and where your tokens go. Stop babysitting terminals.</p>
+        <h1>Your <span>Claude&nbsp;Code</span> companion.</h1>
+        <p class="lede">Know what Claude is doing. Know when it needs you. Know what to do next. Every session, what's proven vs just "finished", risky steps, chat health and your limits.</p>
         <div class="install" role="group" aria-label="Install in Claude Code">
           <button type="button" id="copy" aria-label="Copy install commands">Copy</button>
           <div><span class="c">#</span> inside Claude Code</div>
           <div id="cmd">/plugin marketplace add MatchappAI/buildpilot<br>/plugin install buildpilot@buildpilot</div>
         </div>
-        <p class="sub">Then type <b>/bp-ui</b>. Free to start · everything stays on your computer · works on any editor (or none). Needs Node.js 18+ · best on Mac, Windows/Linux preview.</p>
-        <p class="proof">Source on GitHub · 150+ automated tests · WCAG 2.1 AA audited · light &amp; dark · no account needed</p>
+        <p class="sub">Then type <b>/bp-ui</b>. Free to start · everything stays on your computer · works on any editor (or none). Needs Node.js 18+ · best on Mac, Windows/Linux preview. Optional Mac menu-bar widget with a floating panel.</p>
+        <p class="proof">Source on GitHub · 190+ automated tests · WCAG 2.1 AA audited · light &amp; dark · no account needed</p>
       </div>
-      <img class="shot" src="assets/hero-crop.png" width="760" alt="BuildPilot: a build waiting for your OK, live actions like Running npm test, chat fullness and share of today's use">
+      <img class="shot" src="assets/hero-crop.png" width="760" alt="BuildPilot: a session waiting for your OK, one at step 3 of 5, one finished with tests passed, plan limits and a tip">
     </div>
 
     <section id="features" aria-labelledby="fh">
       <p class="kicker">What you get</p>
       <h2 id="fh">Everything you wish Claude Code told you</h2>
       <div class="grid">
-        <div class="f"><h3>Who needs you, right now</h3><p>Every Claude build across your projects. The one waiting for approval comes first, with the exact command and a button that jumps to its terminal tab.</p></div>
-        <div class="f"><h3>Live, plain-English status</h3><p>"Running npm test · 4 min", "Editing pricing.tsx", "may be stuck". Errors appear as they happen, with one click to copy them for Claude.</p></div>
+        <div class="f"><h3>Who needs you, right now</h3><p>Every Claude Code session across your projects. The one waiting for approval comes first, with the exact command and <b>Go to tab</b>. One notification per moment, never three.</p></div>
+        <div class="f"><h3>Finished vs verified</h3><p>"Running tests · 4 min", "Step 3 of 5". When Claude says it's done you see whether tests passed <i>after</i> its last change, or that it's not tested yet. Real errors only.</p></div>
         <div class="f"><h3>Never hit a limit by surprise</h3><p>Your 5-hour and weekly use, when each resets, and when you'll run out at your pace. A heads-up at 80%, before it's too late.</p></div>
         <div class="f"><h3>Where your tokens go</h3><p>See what's eating each chat: the starting load from tools and MCP, giant file reads, subagents. Get tips that actually cut usage.</p></div>
         <div class="f"><h3>Safe parallel builds</h3><p>Start another Claude in its own copy of the project. Review each change and merge. On a conflict, nothing breaks and you get a fix prompt.</p></div>
-        <div class="f"><h3>Who changed this file?</h3><p>See which build touched a file and when, with one-click undo (a safety save point comes first). Codex sessions show up too.</p></div>
+        <div class="f"><h3>Worth a look</h3><p>Force-pushes, <code>reset --hard</code>, deleted folders, edited <code>.env</code> files, and tests that were failing, got edited, then passed. Plus who changed a file, with one-click undo.</p></div>
       </div>
     </section>
 

diff --git a/src/webview/main.ts b/src/webview/main.ts
@@ -101,7 +101,7 @@ function ring(pct: number): string {
   const r = 7;
   const c = 2 * Math.PI * r;
   const v = Math.min(100, Math.max(0, pct));
-  return `<svg class="ring tone-${pct < 70 ? "calm" : tone(pct)}" viewBox="0 0 18 18" aria-hidden="true" focusable="false"><circle cx="9" cy="9" r="${r}" class="ring-bg"/><circle cx="9" cy="9" r="${r}" class="ring-fg" stroke-dasharray="${((v / 100) * c).toFixed(1)} ${c.toFixed(1)}" transform="rotate(-90 9 9)"/></svg>`;
+  return `<svg class="ring tone-${pct < 70 ? "calm" : toneChat(pct)}" viewBox="0 0 18 18" aria-hidden="true" focusable="false"><circle cx="9" cy="9" r="${r}" class="ring-bg"/><circle cx="9" cy="9" r="${r}" class="ring-fg" stroke-dasharray="${((v / 100) * c).toFixed(1)} ${c.toFixed(1)}" transform="rotate(-90 9 9)"/></svg>`;
 }
 
 /** One calm line at the top when something needs attention (most urgent first, max 2). */
